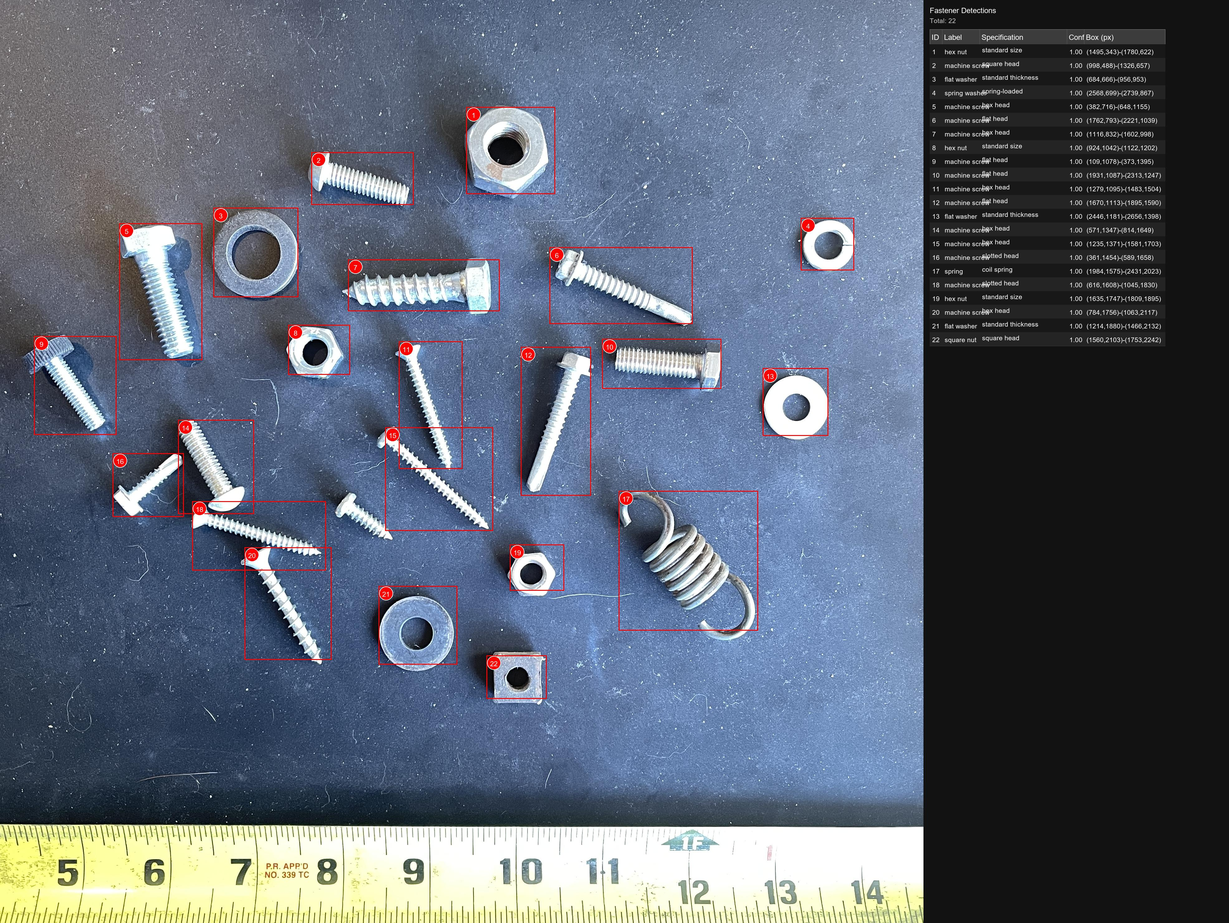
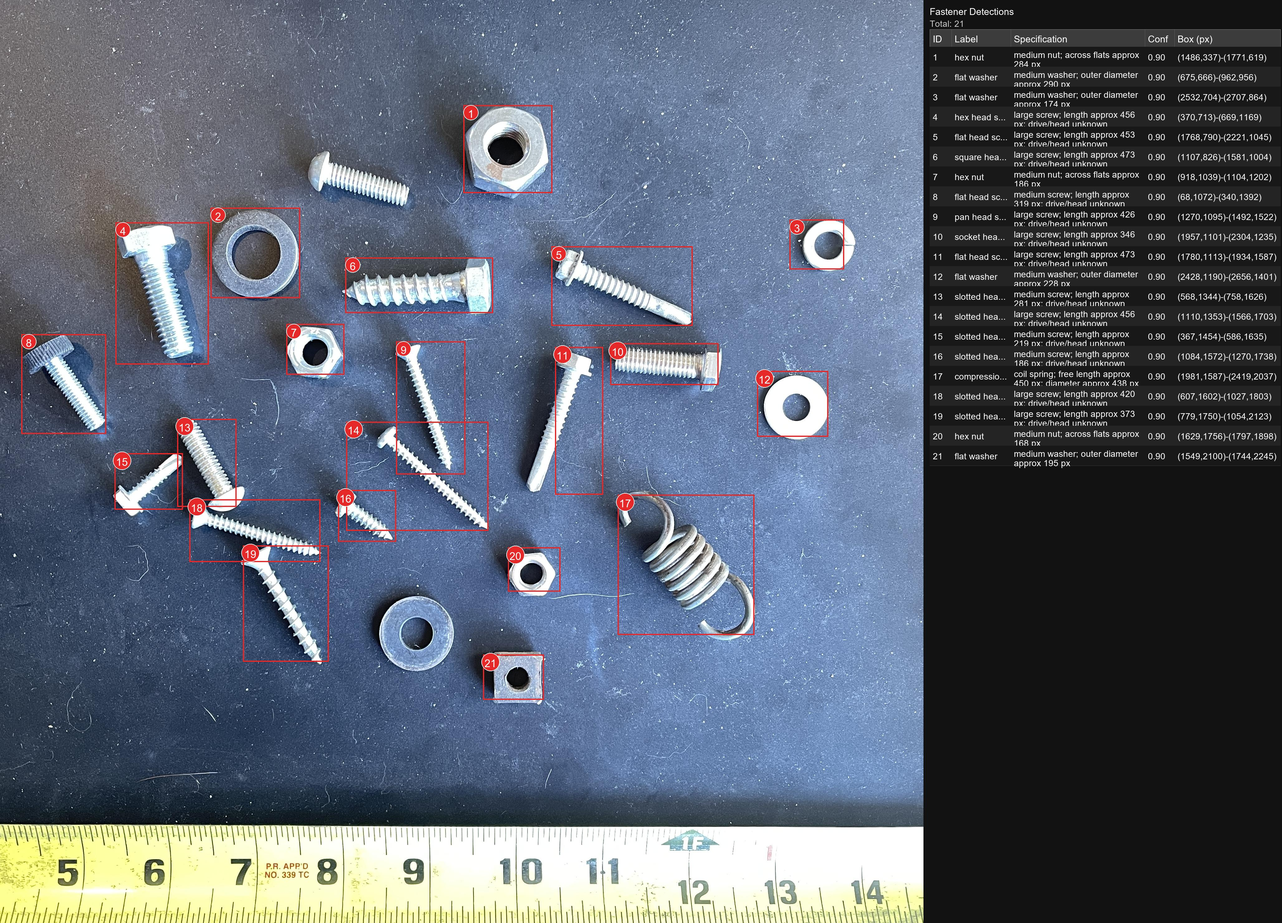
Refactor table drawing logic for improved layout and readability; update font sizes, remove temporary image file

diff --git a/hardware_test.py b/hardware_test.py
@@ -19,6 +19,11 @@ TABLE_GRID = (90, 90, 90)
 TABLE_BORDER = (130, 130, 130)
 TABLE_TEXT = (255, 255, 255)
 TABLE_SUBTEXT = (200, 200, 200)
+TITLE_FONT_SIZE = 34
+TITLE_SUB_FONT_SIZE = 24
+TABLE_HEADER_FONT_SIZE = 22
+TABLE_BODY_FONT_SIZE = 19
+ID_FONT_SIZE = 36
 
 
 def _extract_json_array(raw_content: str):
@@ -252,17 +257,21 @@ def _wrap_text_by_pixels(draw, text, font, max_width, max_lines):
 
 def _draw_table(draw, x_start, y_start, rows, font, header_font):
     headers = ["ID", "Label", "Specification", "Conf", "Box (px)"]
-    col_widths = [70, 190, 430, 95, 340]
-    row_height = 64
+    col_widths = [74, 220, 520, 90, 360]
+    pad_x = 12
+    pad_y = 10
+    spec_max_lines = 2
+    body_h = draw.textbbox((0, 0), "Ag", font=font)[3] - draw.textbbox((0, 0), "Ag", font=font)[1]
+    header_h_text = draw.textbbox((0, 0), "Ag", font=header_font)[3] - draw.textbbox((0, 0), "Ag", font=header_font)[1]
+    row_height = max(56, pad_y * 2 + body_h * spec_max_lines + 4)
     table_width = sum(col_widths)
-    header_h = 56
-    pad = 10
+    header_h = max(54, header_h_text + 24)
 
     # Header band
     draw.rectangle([x_start, y_start, x_start + table_width, y_start + header_h], fill=TABLE_HEADER_BG)
     x = x_start
     for i, header in enumerate(headers):
-        draw.text((x + pad, y_start + 14), header, fill=TABLE_TEXT, font=header_font)
+        draw.text((x + pad_x, y_start + (header_h - header_h_text) / 2 - 1), header, fill=TABLE_TEXT, font=header_font)
         x += col_widths[i]
         draw.line([(x, y_start), (x, y_start + header_h + row_height * len(rows))], fill=TABLE_GRID, width=1)
 
@@ -275,26 +284,29 @@ def _draw_table(draw, x_start, y_start, rows, font, header_font):
         stripe = TABLE_ROW_B if (row["id"] % 2 == 0) else TABLE_ROW_A
         draw.rectangle([x_start, y, x_start + table_width, y + row_height], fill=stripe)
         draw.line([(x_start, y + row_height), (x_start + table_width, y + row_height)], fill=(55, 55, 55), width=1)
+        single_y = y + (row_height - body_h) / 2 - 1
 
         x = x_start
-        id_text = _fit_text(draw, row["id"], font, col_widths[0] - 2 * pad)
-        draw.text((x + pad, y + 18), id_text, fill=TABLE_TEXT, font=font)
+        id_text = _fit_text(draw, row["id"], font, col_widths[0] - 2 * pad_x)
+        draw.text((x + pad_x, single_y), id_text, fill=TABLE_TEXT, font=font)
         x += col_widths[0]
 
-        label_text = _fit_text(draw, row["label"], font, col_widths[1] - 2 * pad)
-        draw.text((x + pad, y + 18), label_text, fill=TABLE_TEXT, font=font)
+        label_text = _fit_text(draw, row["label"], font, col_widths[1] - 2 * pad_x)
+        draw.text((x + pad_x, single_y), label_text, fill=TABLE_TEXT, font=font)
         x += col_widths[1]
 
-        spec_lines = _wrap_text_by_pixels(draw, row["specification"], font, col_widths[2] - 2 * pad, max_lines=2)
-        draw.multiline_text((x + pad, y + 10), "\n".join(spec_lines), fill=TABLE_TEXT, font=font, spacing=4)
+        spec_lines = _wrap_text_by_pixels(draw, row["specification"], font, col_widths[2] - 2 * pad_x, max_lines=spec_max_lines)
+        spec_block_h = len(spec_lines) * body_h + (len(spec_lines) - 1) * 4
+        spec_y = y + (row_height - spec_block_h) / 2 - 1
+        draw.multiline_text((x + pad_x, spec_y), "\n".join(spec_lines), fill=TABLE_TEXT, font=font, spacing=4)
         x += col_widths[2]
 
-        conf_text = _fit_text(draw, row["confidence"], font, col_widths[3] - 2 * pad)
-        draw.text((x + pad, y + 18), conf_text, fill=TABLE_TEXT, font=font)
+        conf_text = _fit_text(draw, row["confidence"], font, col_widths[3] - 2 * pad_x)
+        draw.text((x + pad_x, single_y), conf_text, fill=TABLE_TEXT, font=font)
         x += col_widths[3]
 
-        bbox_text = _fit_text(draw, row["bbox"], font, col_widths[4] - 2 * pad)
-        draw.text((x + pad, y + 18), bbox_text, fill=TABLE_TEXT, font=font)
+        bbox_text = _fit_text(draw, row["bbox"], font, col_widths[4] - 2 * pad_x)
+        draw.text((x + pad_x, single_y), bbox_text, fill=TABLE_TEXT, font=font)
         y += row_height
 
 
@@ -415,9 +427,11 @@ def run_test():
     # 4. Parse the JSON (Models often wrap JSON in code blocks)
     try:
         data = _extract_json_array(raw_content)
-        font = _load_font(28)
-        header_font = _load_font(30)
-        id_font = _load_font(34)
+        title_font = _load_font(TITLE_FONT_SIZE)
+        title_sub_font = _load_font(TITLE_SUB_FONT_SIZE)
+        table_header_font = _load_font(TABLE_HEADER_FONT_SIZE)
+        table_body_font = _load_font(TABLE_BODY_FONT_SIZE)
+        id_font = _load_font(ID_FONT_SIZE)
         detections = []
 
         for entry in data:
@@ -436,7 +450,7 @@ def run_test():
 
         # Draw numbered detections first and run a second pass classifier.
         numbered_img = img.copy()
-        _draw_numbered_detections(numbered_img, detections, font, id_font)
+        _draw_numbered_detections(numbered_img, detections, table_body_font, id_font)
         numbered_img_path = 'output_numbered_tmp.jpg'
         numbered_img.save(numbered_img_path)
 
@@ -466,13 +480,13 @@ def run_test():
             })
 
         # Build a side panel with a formatted table.
-        panel_width = 1150
+        panel_width = 1300
         output = Image.new("RGB", (width + panel_width, height), color=PANEL_BG)
         output.paste(numbered_img, (0, 0))
         panel = ImageDraw.Draw(output)
-        panel.text((width + 20, 20), "Fastener Detections", fill=TABLE_TEXT, font=header_font)
-        panel.text((width + 20, 60), f"Total: {len(table_rows)}", fill=TABLE_SUBTEXT, font=font)
-        _draw_table(panel, width + 20, 94, table_rows, font, header_font)
+        panel.text((width + 20, 20), "Fastener Detections", fill=TABLE_TEXT, font=title_font)
+        panel.text((width + 20, 64), f"Total: {len(table_rows)}", fill=TABLE_SUBTEXT, font=title_sub_font)
+        _draw_table(panel, width + 20, 106, table_rows, table_body_font, table_header_font)
 
         # 5. Save and show the result
         output.save('output_labeled.jpg')
